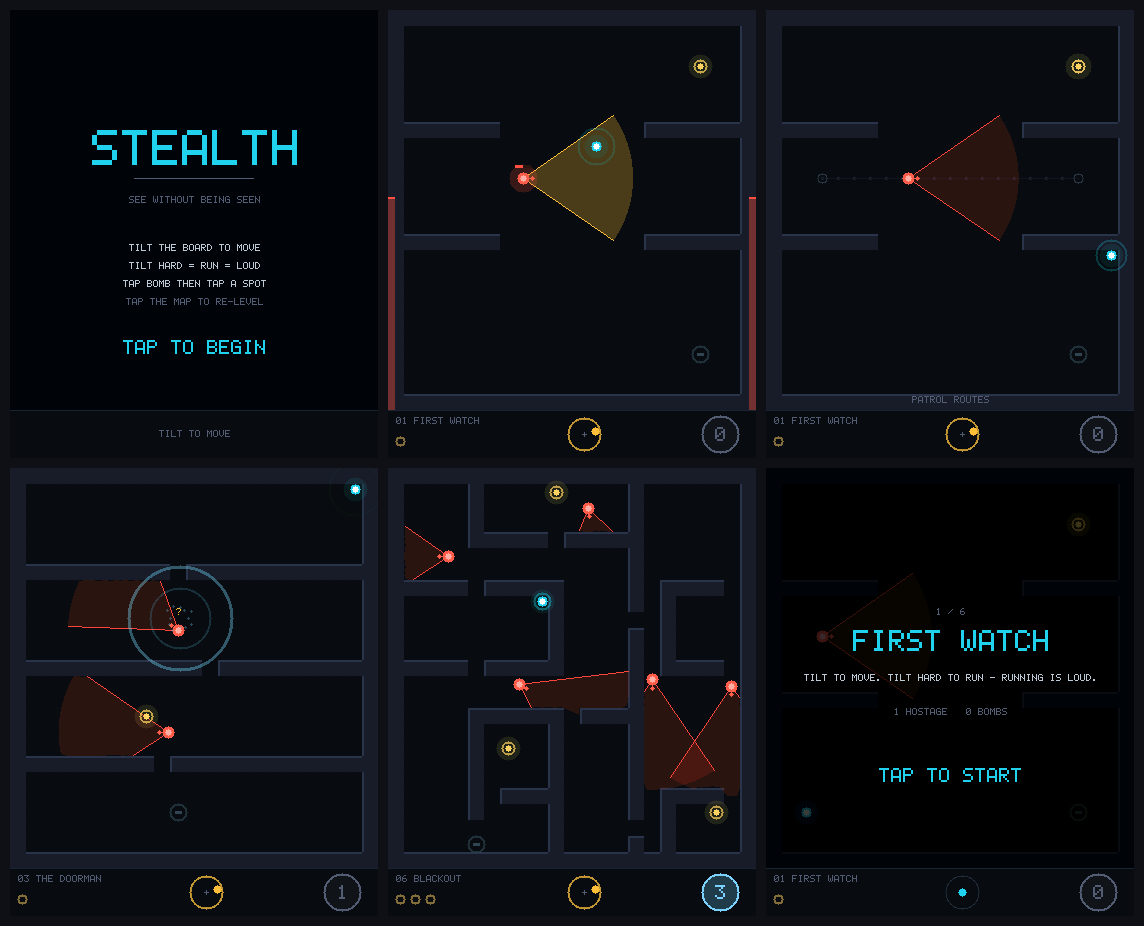
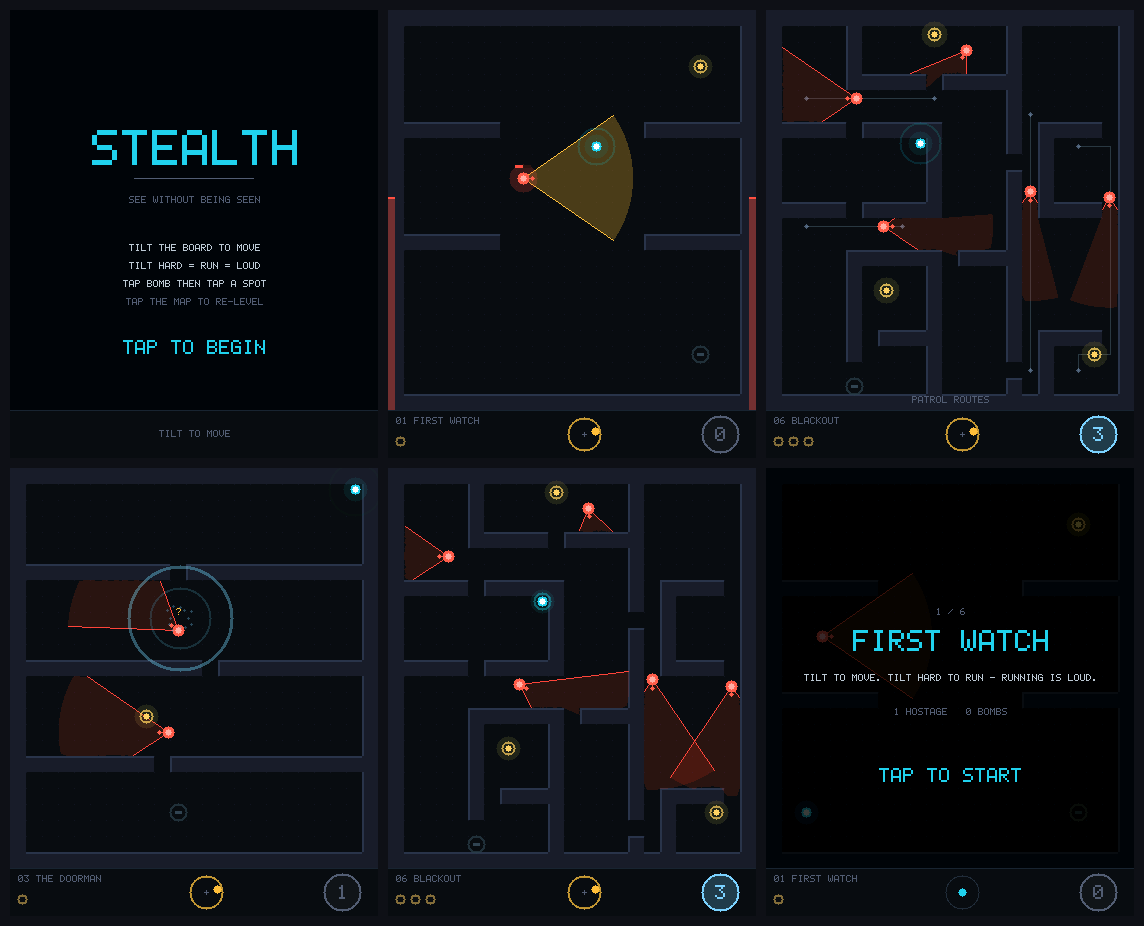
Route reveal: draw the full patrol path as a continuous hairline
The reveal was effectively showing only its endpoints. Two causes, both mine:

- The connecting line was drawn in COL_GRID, RGB565(18,21,32), against a
  floor of RGB565(12,14,22) - a difference of six units per channel, so the
  line was invisible and only the waypoint rings and the 3x3 dots I had
  placed at every path point actually registered.
- Those per-point dots were what made it read as start/end markers rather
  than a route.

Now the whole circuit is one continuous 1px line at alpha 9/32, with the
per-point dots removed and the waypoint markers reduced to small dots so the
line is the thing you see.

Added gfx_polyline_a() rather than looping gfx_line() per segment: adjacent
segments share a vertex, and blending each segment independently would blend
those vertices twice. On a tile-centre path that means a brighter dot every
16px - precisely the dotted look being fixed. The polyline walks the whole
point list and blends each pixel exactly once.

diff --git a/main/render.c b/main/render.c
@@ -112,28 +112,26 @@ static void build_routes(const game_t *g)
     }
 }
 
-// Deliberately faint: a hint you can read while held, not a second HUD.
+// One continuous hairline along the whole route. Deliberately faint: a hint
+// you can read while held, not a second HUD.
+#define COL_ROUTE      RGB565(140, 175, 215)
+#define ROUTE_ALPHA    9      // of 32
+#define ROUTE_END_ALPHA 16
+
 static void draw_routes(gfx_surf_t *s, const game_t *g)
 {
-    static const uint16_t COL_ROUTE = RGB565(120, 150, 190);
-
     for (int i = 0; i < g->guard_count; i++) {
-        for (int k = 0; k + 1 < s_route[i].n; k++) {
-            gfx_blend_rect(s, (int)s_route[i].pts[k].x - 1,
-                              (int)s_route[i].pts[k].y - 1, 3, 3, COL_ROUTE, 5);
-            gfx_line(s, (int)s_route[i].pts[k].x, (int)s_route[i].pts[k].y,
-                        (int)s_route[i].pts[k + 1].x, (int)s_route[i].pts[k + 1].y,
-                        COL_GRID);
-        }
+        if (s_route[i].n < 2) continue;
+        gfx_polyline_a(s, s_route[i].pts, s_route[i].n, COL_ROUTE, ROUTE_ALPHA);
 
-        // Waypoints: where a guard stops, turns and scans - the part worth
-        // knowing when you are planning a crossing.
+        // A small mark where a guard stops, turns and scans - the moment worth
+        // timing a crossing against. Kept smaller than the line is long.
         const guard_def_t *def = g->guards[i].def;
         if (!def) continue;
         for (int w = 0; w < def->wp_count; w++) {
             const int cx = def->wx[w] * TILE + TILE / 2;
             const int cy = def->wy[w] * TILE + TILE / 2;
-            gfx_ring(s, cx, cy, 5, 1, COL_ROUTE, 10);
+            gfx_blend_circle(s, cx, cy, 2, COL_ROUTE, ROUTE_END_ALPHA);
         }
     }
 }

diff --git a/main/gfx.c b/main/gfx.c
@@ -142,6 +142,40 @@ void gfx_line_thick(gfx_surf_t *s, int x0, int y0, int x1, int y1, int t, uint16
     }
 }
 
+static inline void blend_px(gfx_surf_t *s, int x, int y, uint16_t c, uint32_t a)
+{
+    const int lx = x - s->ox, ly = y - s->oy;
+    if (lx < 0 || lx >= s->w || ly < 0 || ly >= s->h) return;
+    uint16_t *p = &s->px[(size_t)ly * s->stride + lx];
+    *p = gfx_to_dev(gfx_blend(c, gfx_from_dev(*p), a));
+}
+
+void gfx_polyline_a(gfx_surf_t *s, const gfx_pt_t *pts, int n, uint16_t c, uint32_t a)
+{
+    if (n < 2 || a == 0) return;
+
+    bool first = true;
+    for (int i = 0; i + 1 < n; i++) {
+        int x0 = (int)pts[i].x,     y0 = (int)pts[i].y;
+        const int x1 = (int)pts[i + 1].x, y1 = (int)pts[i + 1].y;
+
+        int dx =  abs(x1 - x0), sx = (x0 < x1) ? 1 : -1;
+        int dy = -abs(y1 - y0), sy = (y0 < y1) ? 1 : -1;
+        int err = dx + dy;
+
+        bool skip = !first;   // this vertex was already drawn by the last segment
+        for (;;) {
+            if (!skip) blend_px(s, x0, y0, c, a);
+            skip = false;
+            if (x0 == x1 && y0 == y1) break;
+            const int e2 = 2 * err;
+            if (e2 >= dy) { err += dy; x0 += sx; }
+            if (e2 <= dx) { err += dx; y0 += sy; }
+        }
+        first = false;
+    }
+}
+
 // --- polygon ---------------------------------------------------------------
 
 #define POLY_MAX_X 64

diff --git a/tools/host/preview.c b/tools/host/preview.c
@@ -152,6 +152,19 @@ int main(int argc, char **argv)
     snprintf(path, sizeof(path), "%s/06_play_l6.ppm", outdir);
     write_ppm(path);
 
+    // --- routes revealed on the busiest board, where they actually wind ---
+    game_load_level(&g, g_level_count - 1);
+    tap(&g, 184, 300);
+    sim(&g, 1.2f, NULL);
+    {
+        touch_state_t ts = { .down = true, .x = 180, .y = 200, .down_x = 180, .down_y = 200 };
+        sim(&g, 0.9f, &ts);
+        render_to_fb(&g);
+        snprintf(path, sizeof(path), "%s/09_routes_l6.ppm", outdir);
+        write_ppm(path);
+    }
+    sim(&g, 0.2f, NULL);
+
     // --- report simulated state, so the harness doubles as a smoke test ---
     printf("levels=%d  final: phase=%d level=%d guards=%d hostages=%d bombs=%d\n",
            g_level_count, (int)g.phase, g.level_idx + 1, g.guard_count,

diff --git a/main/gfx.h b/main/gfx.h
@@ -58,6 +58,11 @@ void gfx_ring        (gfx_surf_t *s, int cx, int cy, int r, int t, uint16_t c, u
 void gfx_line      (gfx_surf_t *s, int x0, int y0, int x1, int y1, uint16_t c);
 void gfx_line_thick(gfx_surf_t *s, int x0, int y0, int x1, int y1, int t, uint16_t c);
 
+// Alpha-blended 1px polyline. Each pixel is blended exactly once, including
+// the vertices shared between segments - blending segments independently
+// would double-blend every joint and turn a faint line into a dotted one.
+void gfx_polyline_a(gfx_surf_t *s, const gfx_pt_t *pts, int n, uint16_t c, uint32_t a);
+
 // Even-odd scanline fill of an arbitrary simple polygon. Used for vision
 // cones, which are star-shaped but go concave wherever a wall bites into them.
 void gfx_blend_poly(gfx_surf_t *s, const gfx_pt_t *pts, int n, uint16_t c, uint32_t a);

diff --git a/README.md b/README.md
@@ -35,7 +35,7 @@ sight.
 |---|---|
 | Move | **Tilt the board.** Speed rises continuously with the angle |
 | Throw a sound bomb | Tap the bomb button, then tap where it should land |
-| Reveal patrol routes | **Press and hold** the map |
+| Reveal patrol routes | **Press and hold** the map — a hairline traces each guard's full circuit |
 | Re-level the tilt neutral | Short tap on the map (when no bomb is armed) |
 | Menus | Tap |
 
